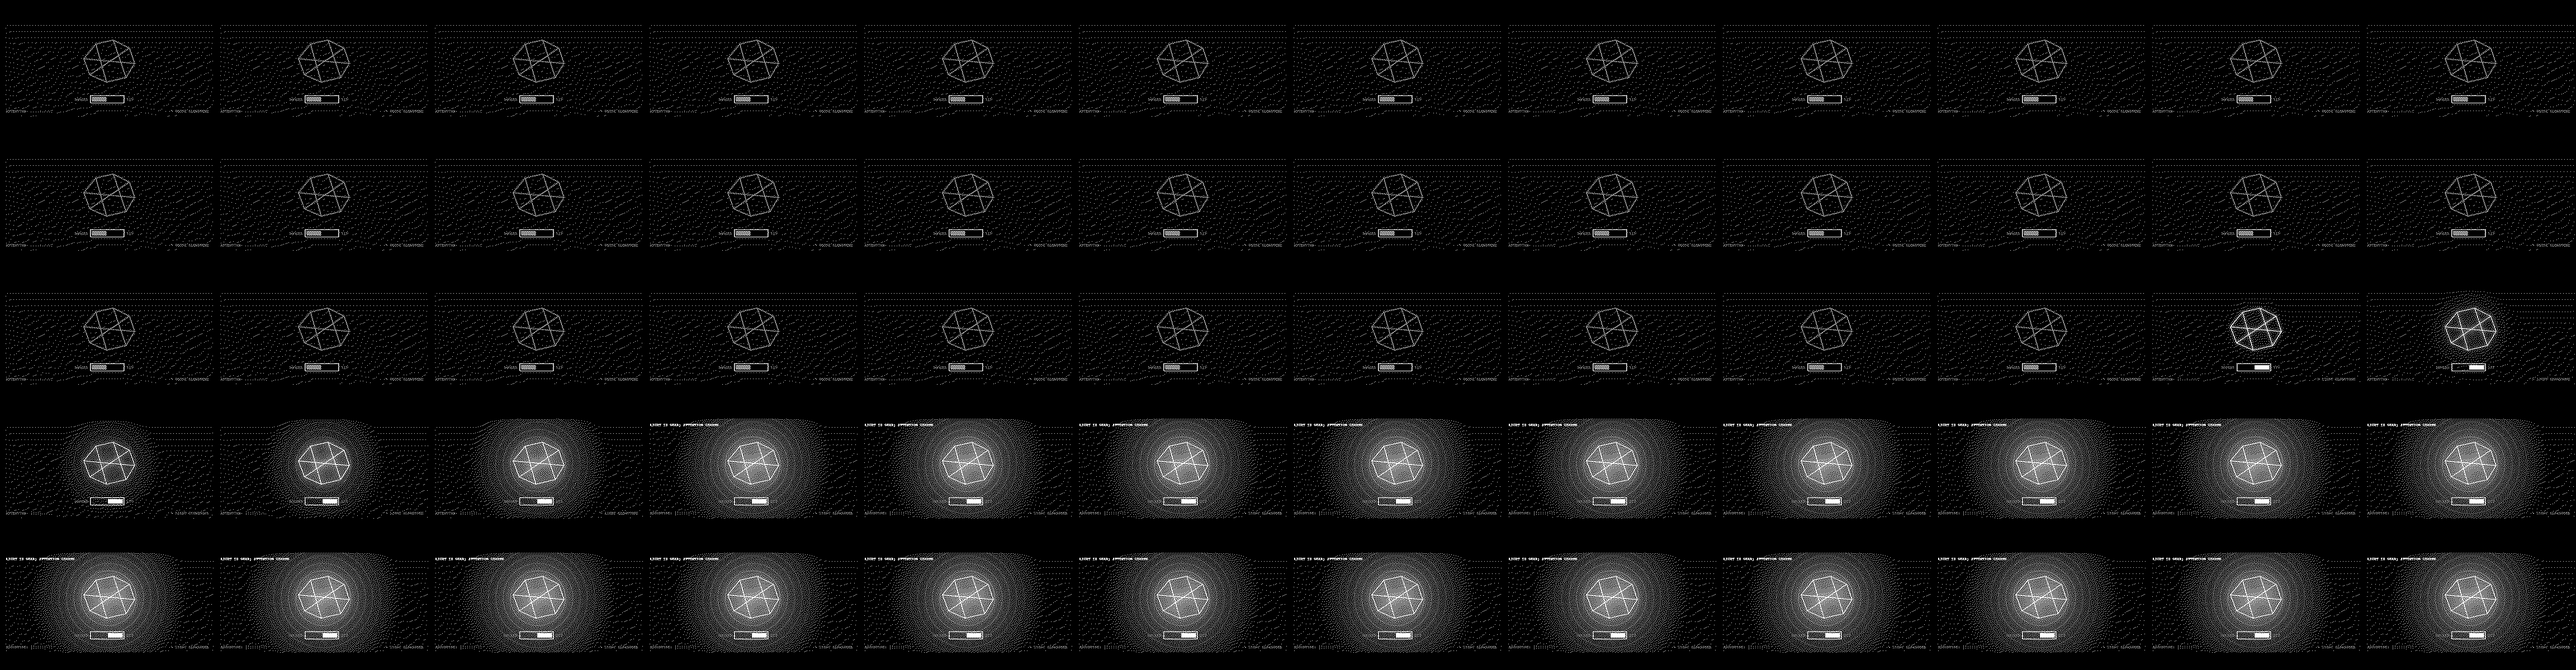
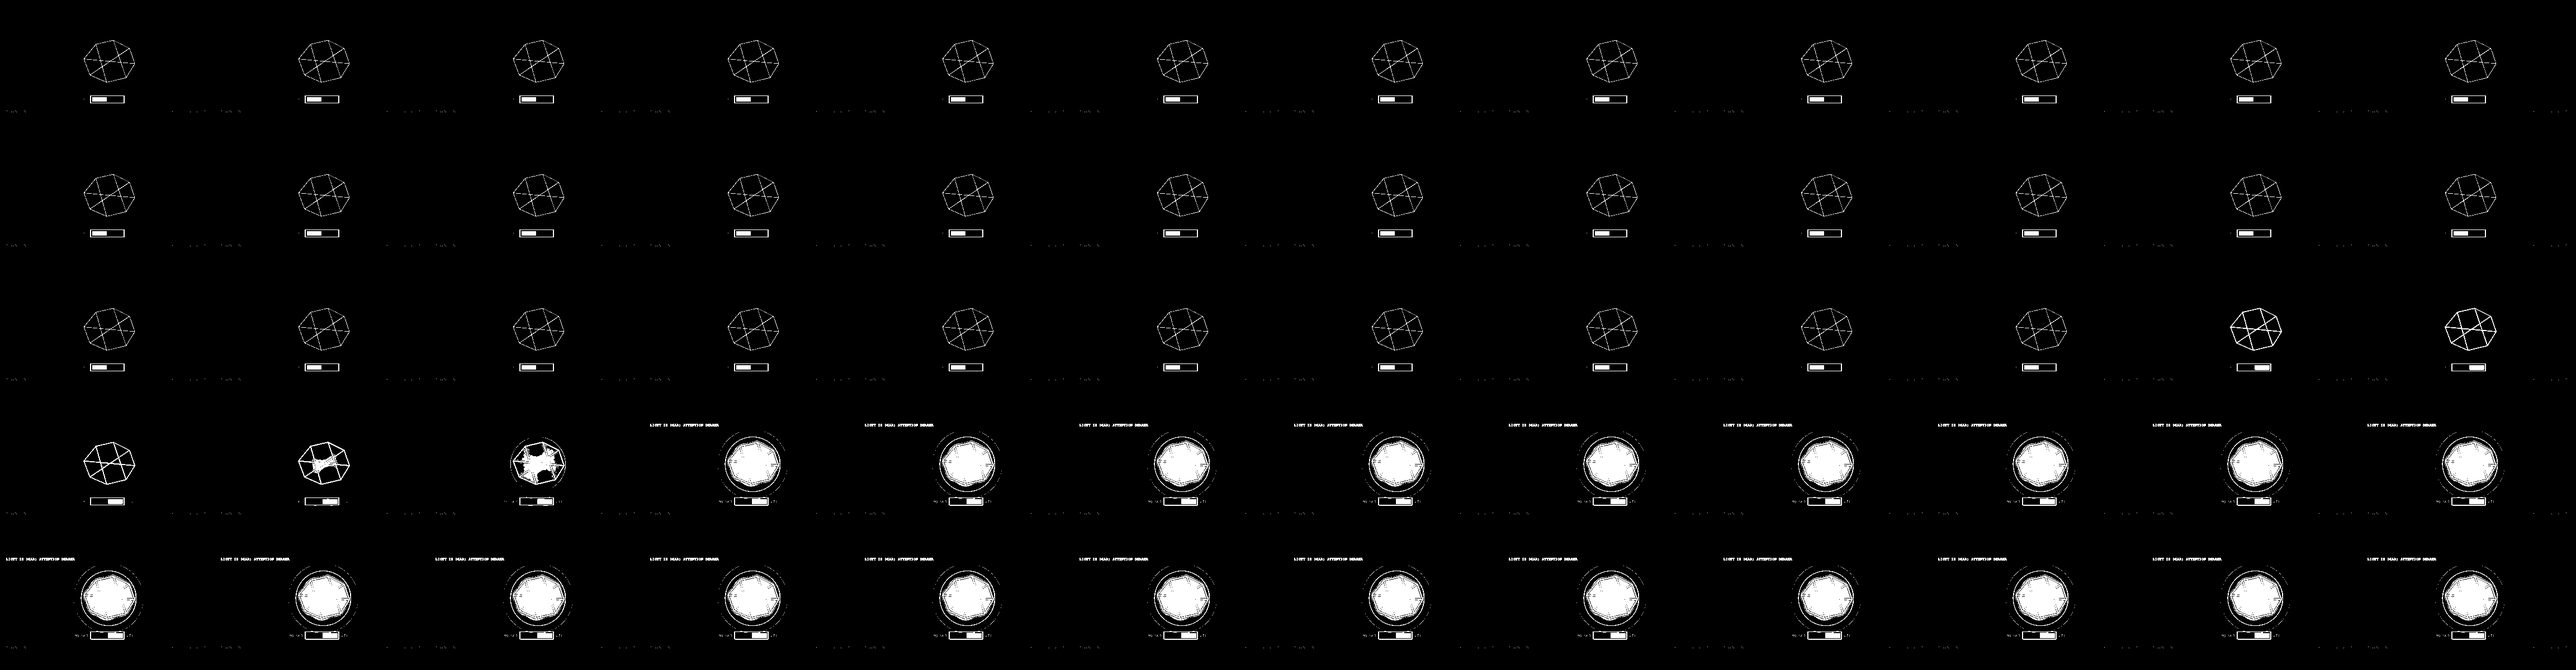
playdate: threshold, not dither -- stable line art on the cards (CCB)
Floyd-Steinberg error diffusion re-rolls per frame: the near-black
background sparkled ('distractingly random sand') and small type
chewed to mush. Line art wants a fixed THRESHOLD: strokes stay crisp
and IDENTICAL frame to frame, black stays black, the stipple survives
as clean dots, and headers become legible. Trade-off, accepted for the
PoC: the very dimmest elements (the dune lines) drop below the cutoff
and vanish -- the proper fix is the small-masters pass (thicker
strokes, larger type), which this pipeline is now ready to receive.

diff --git a/playdate/tools/export_figures.py b/playdate/tools/export_figures.py
@@ -65,15 +65,17 @@ def export(page, key, frames):
     cells = []
     for _ in range(frames):
         shot = Image.open(io.BytesIO(stage.screenshot())).convert("L")
-        # dim phosphor lines dither to noise at 1-bit: lift them first
-        shot = shot.point(lambda v: min(255, int(v * 1.9)))
         scale = min(CELL_W / shot.width, CELL_H / shot.height)
         shot = shot.resize(
             (int(shot.width * scale), int(shot.height * scale)), Image.LANCZOS
         )
         cell = Image.new("L", (CELL_W, CELL_H), 0)
         cell.paste(shot, ((CELL_W - shot.width) // 2, (CELL_H - shot.height) // 2))
-        cells.append(cell.convert("1"))  # Floyd-Steinberg
+        # THRESHOLD, not error-diffusion: line art wants crisp stable
+        # strokes. Floyd-Steinberg re-rolls per frame (shimmering sand,
+        # text chewed to mush); a fixed cutoff keeps black black, keeps
+        # the dim phosphor lines, and never flickers.
+        cells.append(cell.point(lambda v: 255 if v >= 55 else 0, mode="1"))
         page.evaluate("window.TombFigures._tickAll()")
     rows = (len(cells) + COLS - 1) // COLS
     grid = Image.new("1", (CELL_W * COLS, CELL_H * rows), 0)
